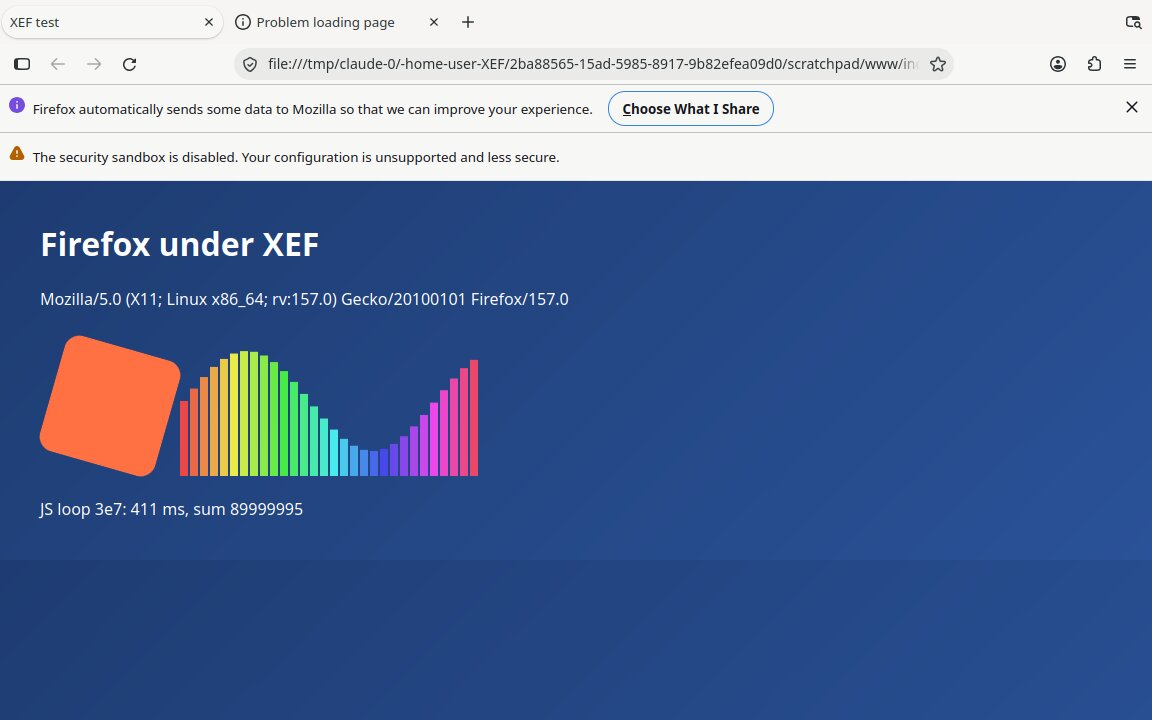
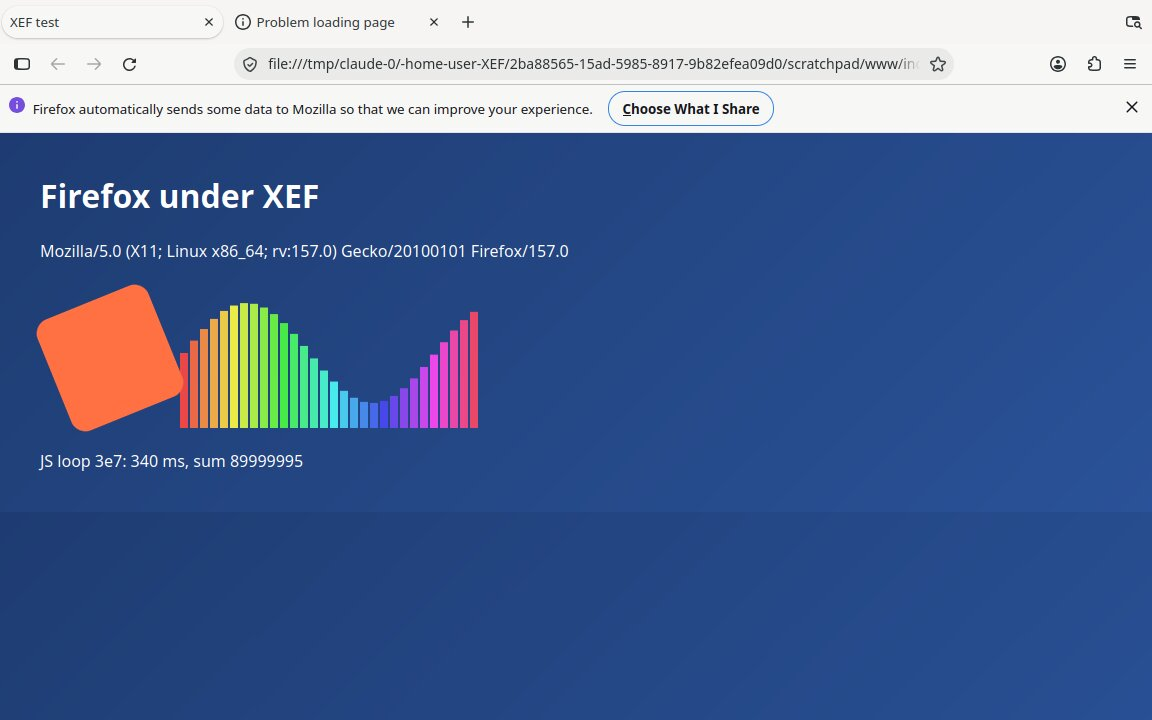
Firefox runs with its default settings: no seccomp, guest-only /proc/self/task
- prctl(PR_SET_SECCOMP) went to the host: the guest's AArch64 BPF filter then
  judged XEF's own x86 syscalls. XEF now behaves like a kernel without seccomp
  (seccomp() = ENOSYS, PR_SET/GET_SECCOMP = EINVAL), as qemu-user does.
- /proc/<pid>/task lists only guest threads (TID registry), so programs that
  signal every thread (Firefox's sandbox setup) no longer wait for XEF's
  compiler thread or host library workers.

Changed region(s): [[0.0, 0.1833, 1.0, 0.3667], [0.0312, 0.3972, 0.5, 0.7333]]

diff --git a/src/os/syscalls.cpp b/src/os/syscalls.cpp
@@ -7,6 +7,7 @@
 #include <fcntl.h>
 #include <limits.h>
 #include <sys/mman.h>
+#include <sys/prctl.h>
 #include <sys/syscall.h>
 #include <sys/utsname.h>
 #include <unistd.h>
@@ -70,7 +71,7 @@ enum GuestNr {
     G_recvmsg = 212, G_readahead = 213, G_brk = 214, G_munmap = 215, G_mremap = 216, G_clone = 220,
     G_execve = 221, G_mmap = 222, G_fadvise64 = 223, G_mprotect = 226, G_msync = 227, G_mlock = 228,
     G_munlock = 229, G_mincore = 232, G_madvise = 233, G_accept4 = 242, G_recvmmsg = 243, G_wait4 = 260,
-    G_prlimit64 = 261, G_syncfs = 267, G_sendmmsg = 269, G_renameat2 = 276, G_getrandom = 278,
+    G_prlimit64 = 261, G_syncfs = 267, G_sendmmsg = 269, G_renameat2 = 276, G_seccomp = 277, G_getrandom = 278,
     G_memfd_create = 279, G_membarrier = 283, G_copy_file_range = 285, G_statx = 291, G_rseq = 293,
     G_clone3 = 435, G_close_range = 436, G_openat2 = 437, G_faccessat2 = 439, G_epoll_pwait2 = 441,
     G_futex_waitv = 449, G_fchmodat2 = 452,
@@ -200,31 +201,38 @@ static i64 close_range_guest(u64 first, u64 last, u64 flags) {
     return lo <= last ? raw(436, lo, last, flags) : r;
 }
 
-// getdents64 on /proc/<pid>/fd: XEF's own descriptors are not the guest's business
-static i64 hide_reserved_fds(int dirfd, u8* buf, i64 n) {
-    bool any = false;
-    for (auto& w : g_reserved) any |= w.load(std::memory_order_relaxed) != 0;
-    if (!any || n <= 0) return n;
+// getdents64 on /proc/<pid>/fd and /proc/<pid>/task: XEF's own descriptors and threads are not
+// the guest's business
+static i64 hide_xef_entries(int dirfd, u8* buf, i64 n) {
+    if (n <= 0) return n;
     char link[64], path[64];
     snprintf(link, sizeof link, "/proc/self/fd/%d", dirfd);
     ssize_t k = readlink(link, path, sizeof path - 1);
     if (k <= 0) return n;
     path[k] = 0;
-    int pid;
-    char tail[8] = {0};
-    if (sscanf(path, "/proc/%d/fd%7s", &pid, tail) != 1 || pid != getpid()) return n;
+    int pid, used = 0;
+    if (sscanf(path, "/proc/%d/%n", &pid, &used) != 1 || pid != getpid()) return n;
+    bool fds = !strcmp(path + used, "fd"), tasks = !strcmp(path + used, "task");
+    if (!fds && !tasks) return n;
     i64 out = 0;
     for (i64 off = 0; off < n;) {
         u16 reclen = *(u16*)(buf + off + 16);
         const char* name = (const char*)(buf + off + 19);
         char* end;
-        long fd = strtol(name, &end, 10);
-        bool hide = *name && !*end && fd >= 0 && fd_reserved((u64)fd);
+        long id = strtol(name, &end, 10);
+        bool num = *name && !*end && id >= 0;
+        bool hide = num && (fds ? fd_reserved((u64)id) : !is_guest_tid((int)id));
         if (!hide) { if (out != off) memmove(buf + out, buf + off, reclen); out += reclen; }
         off += reclen;
     }
     return out;
 }
+
+// ---- seccomp: the guest's filters speak AArch64 syscall numbers and AUDIT_ARCH_AARCH64; on the host
+// they would kill XEF's own x86 syscalls, and XEF cannot enforce them for the guest either. So XEF
+// behaves like a kernel without seccomp (as qemu-user does): sandboxes that need it (Firefox's
+// content sandbox, Chromium's) fall back or must be disabled. ----
+static i64 guest_seccomp_prctl() { return -EINVAL; }
 
 // ---- thread counts the guest reads: its own threads only (not XEF's compiler thread or the
 // worker threads of host libraries behind --host-gl) ----
@@ -450,7 +458,7 @@ void do_syscall(CpuState* st) {
     case G_getdents64:
         for (;;) {   // a buffer of nothing but hidden entries must not read as the end of the directory
             i64 got = raw(SYS_getdents64, a0, a1, a2);
-            r = got > 0 ? hide_reserved_fds((int)a0, (u8*)a1, got) : got;
+            r = got > 0 ? hide_xef_entries((int)a0, (u8*)a1, got) : got;
             if (!(got > 0 && r == 0)) break;
         }
         break;   // pretend: the guest owns it no more
@@ -543,7 +551,11 @@ void do_syscall(CpuState* st) {
         break;
     }
     case G_rseq: r = -ENOSYS; break;
-    case G_prctl: r = raw(SYS_prctl, a0, a1, a2, a3, a4); break;
+    case G_prctl:
+        if (a0 == PR_SET_SECCOMP || a0 == PR_GET_SECCOMP) r = guest_seccomp_prctl();
+        else r = raw(SYS_prctl, a0, a1, a2, a3, a4);
+        break;
+    case G_seccomp: r = -ENOSYS; break;   // see guest_seccomp_prctl
     case G_epoll_ctl: {
         if (a3) {
             GuestEpollEvent* ge = (GuestEpollEvent*)a3;

diff --git a/src/os/thread.cpp b/src/os/thread.cpp
@@ -55,6 +55,31 @@ ThreadCtx* thread_create(CpuState* parent) {
 static std::atomic<int> g_live_threads{1};
 int guest_thread_count() { return g_live_threads.load(); }
 
+// TIDs of the guest's threads (not XEF's compiler thread or host library workers): /proc/self/task
+// lists only these, or programs signalling every thread (Firefox's sandbox setup) wait forever
+static constexpr int kMaxTids = 8192;
+static std::atomic<int> g_tids[kMaxTids];
+static void guest_tid_add(int tid) {
+    for (auto& e : g_tids) {
+        int z = 0;
+        if (e.compare_exchange_strong(z, tid)) return;
+    }
+}
+static void guest_tid_remove(int tid) {
+    for (auto& e : g_tids) {
+        int x = tid;
+        if (e.compare_exchange_strong(x, 0)) return;
+    }
+}
+bool is_guest_tid(int tid) {
+    for (auto& e : g_tids) if (e.load(std::memory_order_relaxed) == tid) return true;
+    return false;
+}
+void guest_tid_init() {   // process start and fork child: just the calling thread
+    for (auto& e : g_tids) e.store(0, std::memory_order_relaxed);
+    guest_tid_add((int)syscall(SYS_gettid));
+}
+
 void thread_exit(CpuState* st, int code) {
     ThreadCtx* t = st->thread;
     if (g_live_threads.fetch_sub(1) == 1) {
@@ -63,6 +88,7 @@ void thread_exit(CpuState* st, int code) {
         syscall(SYS_exit_group, code);
     }
     tier2_thread_stop(t);
+    guest_tid_remove((int)syscall(SYS_gettid));
     if (t && t->clear_child_tid) {
         __atomic_store_n((u32*)t->clear_child_tid, 0, __ATOMIC_SEQ_CST);
         syscall(SYS_futex, t->clear_child_tid, FUTEX_WAKE, 1, nullptr, nullptr, 0);
@@ -87,6 +113,7 @@ static void* thread_trampoline(void* arg) {
     ThreadCtx* t = ts->t;
     int tid = (int)syscall(SYS_gettid);
     t->tid = tid;
+    guest_tid_add(tid);
     // like the kernel: both tid stores happen before the new thread runs guest code. (glibc passes
     // the same address as ptid and ctid; a parent-side store after the child started could
     // overwrite the 0 written when the thread exits, and pthread_join would wait forever.)
@@ -141,6 +168,7 @@ i64 thread_clone(CpuState* st, u64 flags, u64 stack, u64 ptid, u64 tls, u64 ctid
         if (stack) st->x[kGuestSP] = stack;
         if (flags & kCloneSettls) st->tpidr_el0 = tls;
         g_live_threads.store(1);
+        guest_tid_init();
         if (st->thread) st->thread->tid = (int)syscall(SYS_gettid);
         tier2_after_fork(st->thread);
         return 0;

diff --git a/src/os/thread.h b/src/os/thread.h
@@ -28,6 +28,8 @@ struct ThreadCtx {
 };
 
 ThreadCtx* thread_create(CpuState* parent);
+void guest_tid_init();
+bool is_guest_tid(int tid);
 void thread_exit(CpuState* st, int code);
 i64 thread_clone(CpuState* st, u64 flags, u64 stack, u64 ptid, u64 tls, u64 ctid);
 i64 process_execve(CpuState* st, u64 path, u64 argv, u64 envp);

diff --git a/src/main.cpp b/src/main.cpp
@@ -114,6 +114,7 @@ int main(int argc, char** argv, char** envp) {
     syscalls_init(img);
     GuestAddr sp = setup_stack(img, argc - i, argv + i, envp);
 
+    guest_tid_init();
     ThreadCtx* t = thread_create(nullptr);
     CpuState* st = t->st;
     signals_thread_init(t);

diff --git a/docs/HANDOFF.md b/docs/HANDOFF.md
@@ -70,9 +70,6 @@ zaszumiona, więc licz się z dużą wariancją i używaj minimum z wielu przebi
 - `XEF_STRICT_FLAGS=1` — nie zakładaj, że NZCV jest martwe przy BL/BLR/RET (AAPCS64); fuzzer go ustawia.
 
 ## Następne kroki (priorytet)
-- Firefox: sandbox procesów potomnych (seccomp ustawiany sygnałem do każdego wątku) zgłasza wątek, który
-  nie odpowiada w 10 s -> sprawdzić dostarczanie sygnału do wątku zablokowanego w syscallu
-  (dziś: `MOZ_DISABLE_*_SANDBOX=1`), oraz czy prctl/seccomp gościa jest emulowany sensownie.
 0. Przepuścić więcej programów przez `XEF_VERIFY=1` (testy stdlib Pythona, aplikacje GUI) i naprawić
    znalezione bloki; testy Pythona (w tym asyncio, ssl) przechodzą po naprawie slotów spill
    i dostarczania sygnałów (test_socket: tylko VSOCK — środowisko).
@@ -86,6 +83,11 @@ zaszumiona, więc licz się z dużą wariancją i używaj minimum z wielu przebi
 4. Trwały cache AOT, thunki bibliotek.
 
 ## Pułapki, na które już wpadliśmy
+- seccomp gościa (filtry BPF z numerami AArch64) nie może trafić na hosta — zabijałby syscalle XEF:
+  `seccomp()` = ENOSYS, `PR_SET/GET_SECCOMP` = EINVAL (jądro bez seccomp, jak qemu-user). Udawanie
+  sukcesu bez egzekwowania psuje Firefoksa (chroot + broker przez SIGSYS).
+- `/proc/self/task` pokazuje tylko wątki gościa (rejestr TID w thread.cpp): Firefox sygnalizował każdy
+  wątek z listy, łącznie z wątkiem kompilatora tier 2, i czekał na odpowiedź.
 - Wywołanie helpera C (`emit_call_c`) niszczy rejestry tymczasowe: wartości żywe po wywołaniu, także
   jego argumenty, muszą zostać wyrzucone przed nim (adres IC IVAU używany dalej -> Firefox flushował
   od adresu 0 całą przestrzeń). Weryfikator pomija bloki z helperami, test: t_icflush.

diff --git a/docs/GUI.md b/docs/GUI.md
@@ -38,7 +38,7 @@ Verified with `--host-gl`:
 | Hedgewars 1.0 | Qt 5 frontend starts the Free Pascal engine (SDL2 + GL); simple game against the CPU team | `hedgewars-hostgl.jpg` |
 | FlightGear 2020.3 | OpenSceneGraph, Nasal, Qt 5; Cessna 172P cockpit at KSFO after ~110 s of loading. Needs `DBUS_FATAL_WARNINGS=0` without a session bus (fgfs passes a NULL connection to libdbus, natively too); `--disable-terrasync` | `flightgear-hostgl.jpg` |
 | OpenTTD 13.4 | SDL2, title screen with the running demo game (`-m null -s null`: no music/sound drivers) | `openttd.jpg` |
-| Firefox 157 | Mozilla PPA build (`XEF_REPOS=http://ppa.launchpad.net/mozillateam/ppa/ubuntu tools/mkrootfs.sh firefox`): GTK3 UI, page with CSS animation, canvas and SpiderMonkey JIT. Needs the `MOZ_DISABLE_*_SANDBOX=1` variables for now (a sandboxed child process reports a thread that does not answer the seccomp setup signal) and an existing `-profile` directory | `firefox.jpg` |
+| Firefox 157 | Mozilla PPA build (`XEF_REPOS=http://ppa.launchpad.net/mozillateam/ppa/ubuntu tools/mkrootfs.sh firefox`): GTK3 UI, page with CSS animation, canvas and the SpiderMonkey JIT; multi-process. XEF reports no seccomp (like qemu-user), so the sandbox runs without its seccomp layer. Needs an existing `-profile` directory | `firefox.jpg` |
 | LibreOffice 24.2 Writer | GTK3; ready in ~15 s; typing, spell checking (no --host-gl needed) | `libreoffice-writer.jpg` |
 | OpenSCAD 2021 | Qt 5 + CGAL (needs FP rounding modes: FPCR -> MXCSR); CSG preview on host GL | `openscad-hostgl.jpg` |
 | Inkscape 1.2 | GTK3 welcome dialog | `inkscape.jpg` |
